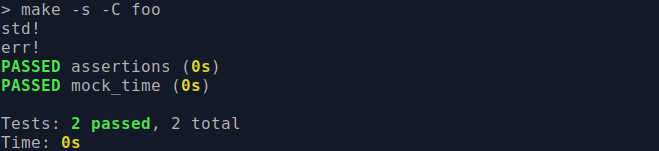
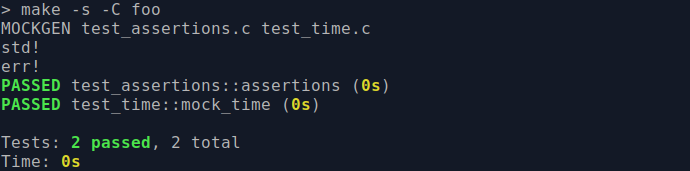
README.

Changed region(s): [[0.0, 0.0, 0.5766, 0.6887], [0.0, 0.7682, 0.3642, 0.8742], [0.0, 0.9007, 0.1214, 0.9801]]

diff --git a/README.rst b/README.rst
@@ -43,23 +43,24 @@ you should be good to go.
 Example
 =======
 
-Use ``nala init`` to create a test suite called ``foo``.
+Use ``nala init foo`` to create a test folder called ``foo``.
 
 .. code-block:: bash
 
    $ nala init foo
-   Run 'make -C foo' to build and run the test suite!
+   Run 'make -C foo' to build and run all tests!
 
-The test suite is found in ``foo/main.c`` and contains two tests; the
-first uses all assertions and captures output, and the second mocks
-the time function.
+Two test files are created ``foo/test_assertions.c`` and
+``foo/test_time.c``. The first uses all assertions and captures
+output, and the second mocks the time function.
+
+The assertions test file:
 
 .. code-block:: c
 
    #include <time.h>
    #include "nala.h"
-   #include "nala_mocks.h"
-
+   
    TEST(assertions)
    {
        ASSERT_EQ(NULL, NULL);
@@ -72,26 +73,38 @@ the time function.
        ASSERT_NOT_SUBSTRING("12345", "4567");
        ASSERT_MEMORY("abcd", "abcd", 5);
        ASSERT(1 == 1);
-
+   
        CAPTURE_OUTPUT(output, errput) {
            printf("std!\n");
            fprintf(stderr, "err!\n");
        }
-
+   
        ASSERT_EQ(output, "std!\n");
        ASSERT_EQ(errput, "err!\n");
    }
 
+The time test file:
+
+.. code-block:: c
+
+   #include <time.h>
+   #include "nala.h"
+   #include "nala_mocks.h"
+   
    TEST(mock_time)
    {
        time_mock_once(42);
-
+   
        ASSERT_EQ(time(NULL), 42);
    }
 
-Build and run the tests.
+Build and run all tests.
 
 .. image:: https://github.com/eerimoq/nala/raw/master/docs/build-and-run.png
+
+Build and run time tests.
+
+.. image:: https://github.com/eerimoq/nala/raw/master/docs/build-and-run-one-test.png
 
 Compiler flags
 ==============
